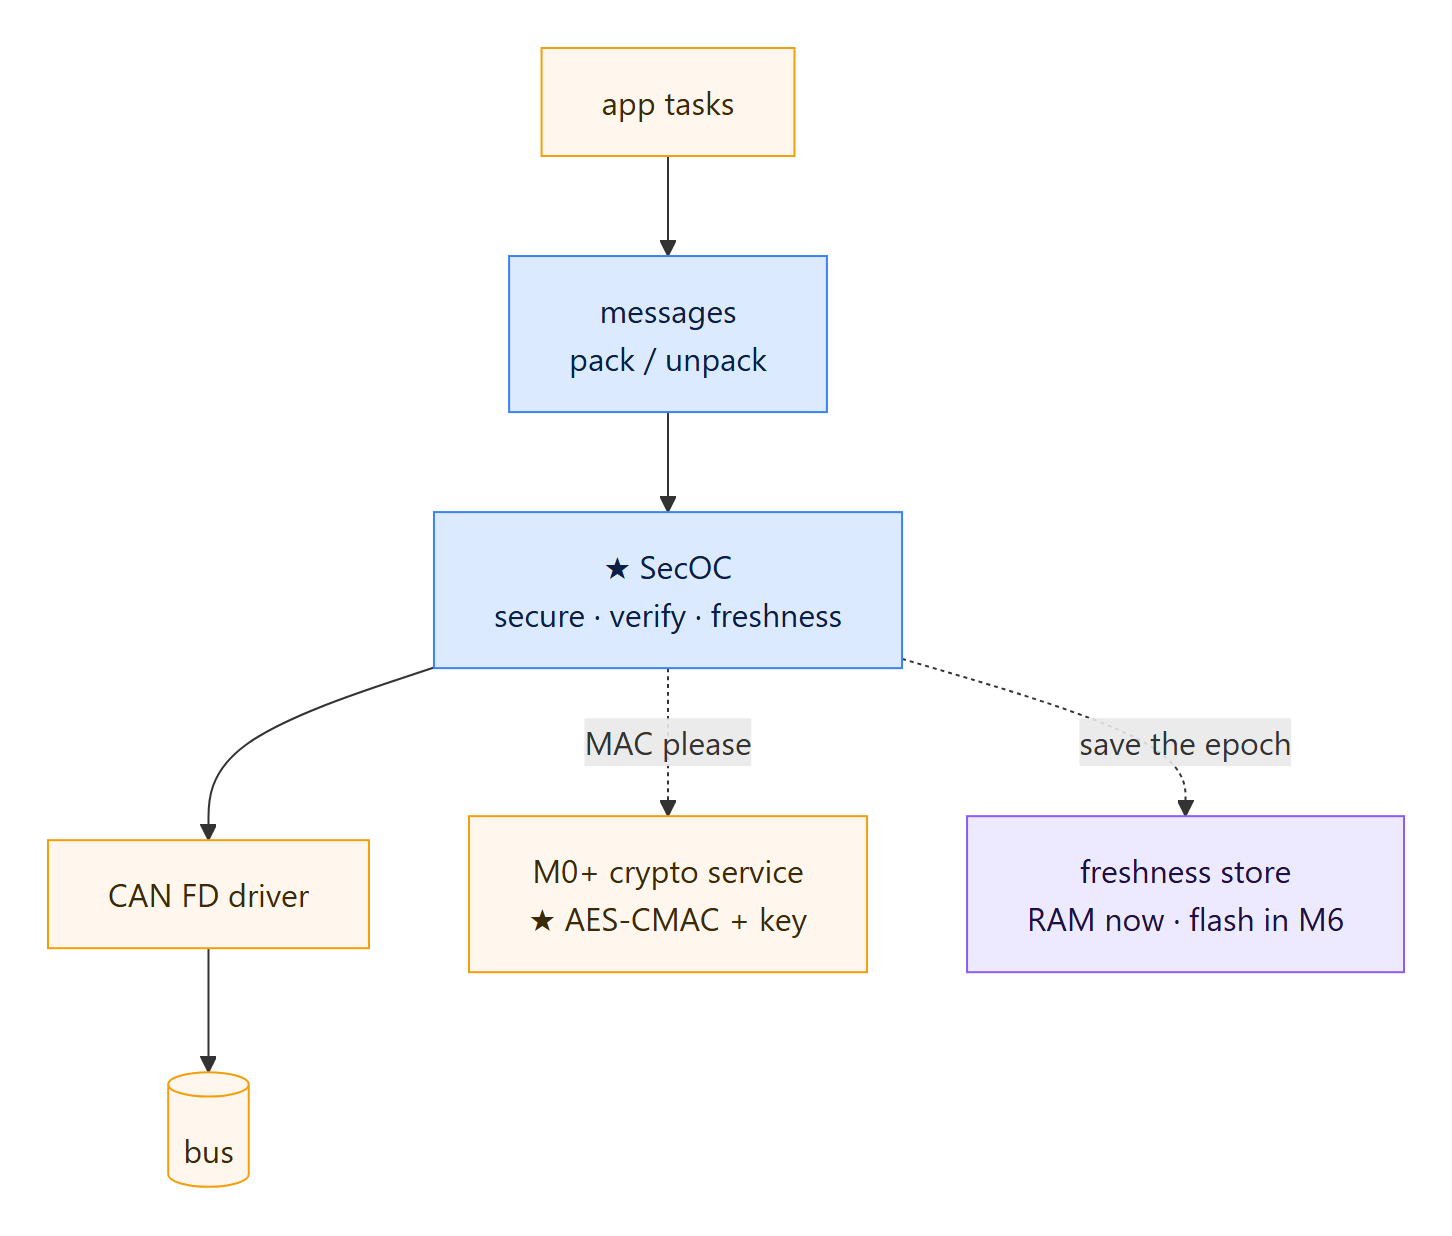
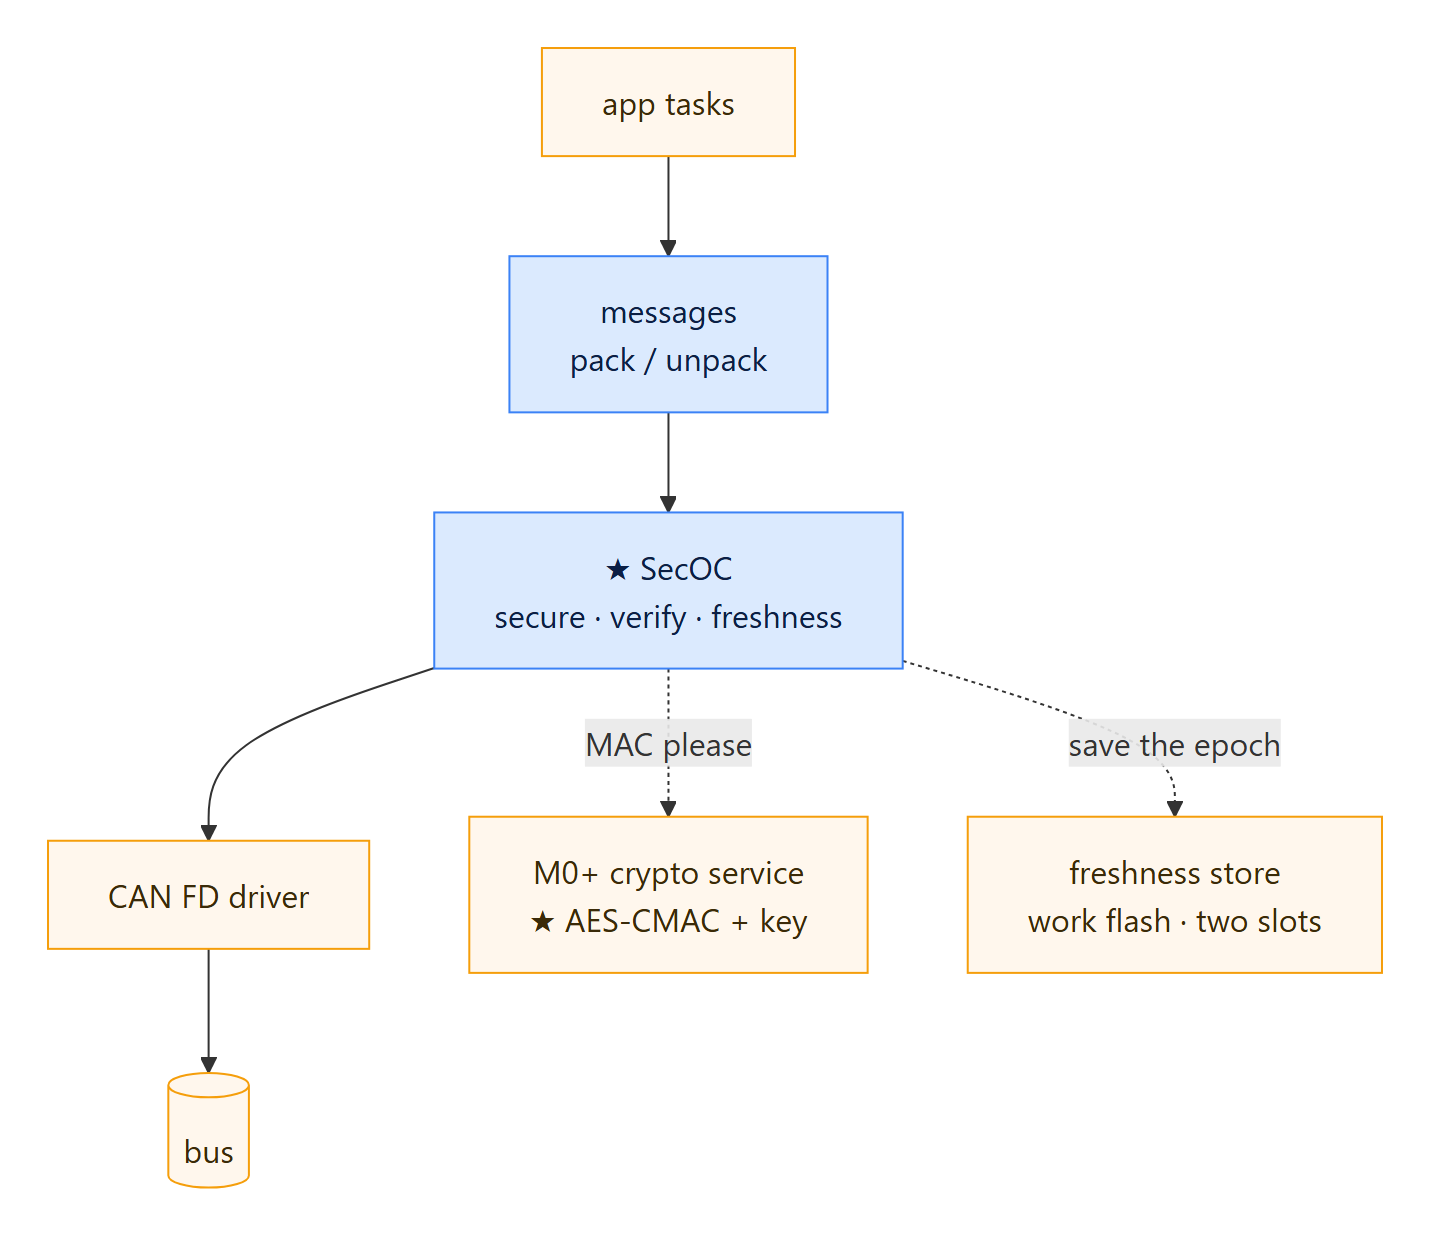
docs(blog): M5 post updated for M5B — persistent freshness, gateway-reboot fix
Update the published M5 post in place instead of a separate M5B post:
- freshness state now in work flash (two slots), not "RAM, M6 fixes it"
- reset demo: an old frame after a Node B reset is now refused (2026-11-01 capture)
- key residency backed by the 2026-10-30 image check
- new "Update, November 2026" section: power cycles, F-014 (460 rejects -> 0/0/1),
  F-015 (failed save now drops the frame); new fig-10, fig-06 re-rendered
- metadata tag m5b-secoc

diff --git a/docs/blogs/m5-secoc-medium.html b/docs/blogs/m5-secoc-medium.html
@@ -3,24 +3,25 @@
 <style>body{max-width:720px;margin:2em auto;font:18px/1.6 Georgia,serif;padding:0 16px}img{max-width:100%}pre{background:#f4f4f4;padding:12px;overflow-x:auto;font-size:14px}mark{background:#ffe08a}blockquote{border-left:3px solid #ccc;margin-left:0;padding-left:16px;color:#444}</style></head><body>
 <h1>M5 — Signing every CAN frame between two MCUs</h1>
 <p><em>Part V of Traveo II Domain — building an automotive body-domain network from scratch on an Infineon TRAVEO™ T2G, with the design done in the open and Claude used as a visible collaborator.</em></p>
-<figure><img src="https://raw.githubusercontent.com/binhnguyenthanh051-ops/traveo-body-domain/docs/m5-blog/docs/blogs/img/m5/hero.png" alt=""></figure>
+<figure><img src="https://raw.githubusercontent.com/binhnguyenthanh051-ops/traveo-body-domain/docs/m5b-blog/docs/blogs/img/m5/hero.png" alt=""></figure>
 <p>M4 ends with a promise: <em>"Symmetric crypto comes in M5 for authenticated messages (a MAC on CAN frames)."</em> This post keeps it.</p>
 <p>M4 checks <strong>which code runs</strong>. M5 checks <strong>which commands that code obeys</strong>. Every frame between the two nodes now carries a MAC and a counter, and someone on the bus without the key can't unlock the door.</p>
 <p>The plan is simple: the problem, the solution, how it's built, and the test. The test has a twist: all host tests passed, and the first real bus rejected every frame.</p>
+<p><em>Updated November 2026: the counter now survives a reboot, and that fix turned up a new bug. The story is in the update at the end.</em></p>
 <hr>
 <h2>1. The problem</h2>
 <h3>What can an attacker do to a CAN frame?</h3>
 <p>Two nodes talk over CAN FD. Node A (the gateway) sends commands, and Node B (the actuator) drives the door lock and the light.</p>
-<figure><img src="https://raw.githubusercontent.com/binhnguyenthanh051-ops/traveo-body-domain/docs/m5-blog/docs/blogs/img/m5/fig-01.png" alt="diagram"></figure>
+<figure><img src="https://raw.githubusercontent.com/binhnguyenthanh051-ops/traveo-body-domain/docs/m5b-blog/docs/blogs/img/m5/fig-01.png" alt="diagram"></figure>
 <p>CAN has no idea who sent a frame. Any node can send any ID. So an attacker with a USB-CAN adapter (but no key) has four options:</p>
-<figure><img src="https://raw.githubusercontent.com/binhnguyenthanh051-ops/traveo-body-domain/docs/m5-blog/docs/blogs/img/m5/fig-02.png" alt="diagram"></figure>
+<figure><img src="https://raw.githubusercontent.com/binhnguyenthanh051-ops/traveo-body-domain/docs/m5b-blog/docs/blogs/img/m5/fig-02.png" alt="diagram"></figure>
 <p><em>Before M5, all four end in the red box.</em></p>
 <p>Replay is the sneaky one. The replayed frame <strong>is</strong> real: it came from Node A and nobody changed it. Checking "who sent it" and "was it changed" isn't enough. The receiver also has to ask: <strong>is it new?</strong></p>
 <hr>
 <h2>2. The solution</h2>
 <h3>One fix per attack</h3>
 <p>This is SecOC (Secure Onboard Communication), the AUTOSAR idea, in a simple form.</p>
-<figure><img src="https://raw.githubusercontent.com/binhnguyenthanh051-ops/traveo-body-domain/docs/m5-blog/docs/blogs/img/m5/fig-03.png" alt="diagram"></figure>
+<figure><img src="https://raw.githubusercontent.com/binhnguyenthanh051-ops/traveo-body-domain/docs/m5b-blog/docs/blogs/img/m5/fig-03.png" alt="diagram"></figure>
 <ul>
 <li>A <strong>MAC</strong> alone stops spoofing and tampering. A replayed frame still has a valid MAC.</li>
 <li><strong>MAC + freshness</strong> stops replay.</li>
@@ -28,7 +29,7 @@
 </ul>
 <p>The Data ID wasn't in my first design. I found the masquerade hole while reviewing it on paper, which is a much cheaper place to find it than on the bench.</p>
 <h3>What a secured frame looks like</h3>
-<figure><img src="https://raw.githubusercontent.com/binhnguyenthanh051-ops/traveo-body-domain/docs/m5-blog/docs/blogs/img/m5/fig-04.png" alt="diagram"></figure>
+<figure><img src="https://raw.githubusercontent.com/binhnguyenthanh051-ops/traveo-body-domain/docs/m5b-blog/docs/blogs/img/m5/fig-04.png" alt="diagram"></figure>
 <p><em>Door command 0x120. The MAC covers the CAN ID + freshness + PDU, but the CAN ID isn't repeated inside the frame. Remember the grey pad box, it comes back in §4.</em></p>
 <pre><code>MAC        AES-128-CMAC, cut to 8 bytes
 Freshness  epoch (2 B) + counter (2 B)
@@ -36,23 +37,24 @@ Overhead   12 bytes per frame
 Bus        CAN FD, 500 kbit/s / 2 Mbit/s</code></pre>
 <p><strong>Why only 8 bytes of MAC?</strong> Every guess costs the attacker one frame on the bus, and the counter changes the MAC every time. So 8 bytes (1 in 2⁶⁴ per try) is plenty.</p>
 <h3>Is it new? The freshness rule</h3>
-<figure><img src="https://raw.githubusercontent.com/binhnguyenthanh051-ops/traveo-body-domain/docs/m5-blog/docs/blogs/img/m5/fig-05.png" alt="diagram"></figure>
+<figure><img src="https://raw.githubusercontent.com/binhnguyenthanh051-ops/traveo-body-domain/docs/m5b-blog/docs/blogs/img/m5/fig-05.png" alt="diagram"></figure>
 <ul>
 <li>The <strong>MAC is checked first</strong>. A fake frame can never move the counter, so an attacker can't block real frames with junk.</li>
 <li>Each ID has its <strong>own counter</strong>, and all IDs share one <strong>epoch</strong> per boot. One flash write per boot, no matter how many IDs.</li>
 </ul>
-<p>Honest — the counter lives in RAM, so replay protection resets when Node B reboots. M6 moves it to flash.</p>
+<p>Each node's epoch, and the newest epoch it has accepted from the other node, are saved in flash. So replay protection survives a reboot. The first version kept them in RAM; the update at the end shows what that cost.</p>
 <h3>Where the key lives</h3>
 <p>The key is on the <strong>M0+</strong>, the same security core M4 uses to check the app. The app core never sees the key. It can only ask the M0+: "give me a MAC over these bytes". That's the opcode M4 kept free for M5.</p>
+<p>I checked that in the built images: the key's 16 bytes are in both M0+ images, and in none of the app or bootloader images.</p>
 <p>Honest — both nodes share one key, built into the M0+ image. Real cars use a key per ECU.</p>
 <hr>
 <h2>3. The implementation</h2>
 <h3>A new brick between two old ones</h3>
-<figure><img src="https://raw.githubusercontent.com/binhnguyenthanh051-ops/traveo-body-domain/docs/m5-blog/docs/blogs/img/m5/fig-06.png" alt="diagram"></figure>
-<p><em>Blue runs on a PC too. Amber is board code. Purple changes in M6.</em></p>
+<figure><img src="https://raw.githubusercontent.com/binhnguyenthanh051-ops/traveo-body-domain/docs/m5b-blog/docs/blogs/img/m5/fig-06.png" alt="diagram"></figure>
+<p><em>Blue runs on a PC too. Amber is board code.</em></p>
 <p>SecOC knows nothing about the CAN driver, the IPC mailbox or the flash. It talks to them through a few small interfaces, and each node plugs in its own version. So the <strong>same SecOC code</strong> runs on Node A (Cortex-M4), Node B (Cortex-M7) and my PC for the unit tests.</p>
 <h3>The data path</h3>
-<figure><img src="https://raw.githubusercontent.com/binhnguyenthanh051-ops/traveo-body-domain/docs/m5-blog/docs/blogs/img/m5/fig-07.png" alt="diagram"></figure>
+<figure><img src="https://raw.githubusercontent.com/binhnguyenthanh051-ops/traveo-body-domain/docs/m5b-blog/docs/blogs/img/m5/fig-07.png" alt="diagram"></figure>
 <p><em>A frame that fails never reaches the door. A fake command is treated the same as no command.</em></p>
 <h3>Node B has a cache</h3>
 <p>Node B is a different chip: a Cortex-M7, with a data cache. The M7 and the M0+ share the mailbox, and the M0+ can't see what's still sitting in the M7's cache. Instead of cleaning the cache on every call (easy to forget once), the mailbox lives in a memory region the MPU marks <strong>non-cacheable</strong>, set once at startup.</p>
@@ -64,19 +66,20 @@ Bus        CAN FD, 500 kbit/s / 2 Mbit/s</code></pre>
 <p>On the first real bus run, Node A rejected <strong>every</strong> frame from Node B. The sniffer showed why:</p>
 <pre><code>200  len=16  TELEMETRY  00 00 00 | epoch 1 ctr 7154 | mac 71b9fa4e9d1e45a7 | pad 00</code></pre>
 <p>I expected 15 bytes (3 B data + 12 B). The frame had <strong>16</strong>. CAN FD has no 13, 14 or 15-byte frames, so the controller pads up to 16.</p>
-<figure><img src="https://raw.githubusercontent.com/binhnguyenthanh051-ops/traveo-body-domain/docs/m5-blog/docs/blogs/img/m5/fig-08.png" alt="diagram"></figure>
+<figure><img src="https://raw.githubusercontent.com/binhnguyenthanh051-ops/traveo-body-domain/docs/m5b-blog/docs/blogs/img/m5/fig-08.png" alt="diagram"></figure>
 <p>The receiver guessed the data length as "frame length minus 12". On a padded frame that guess is wrong, so the MAC check reads the wrong bytes.</p>
 <p><strong>The fix:</strong> the data length per CAN ID is now <strong>configuration</strong>, not a guess. That's how AUTOSAR does it, and now I know why. 9 more tests (239), and the bus went green: thousands of frames each way, counters with no gaps, zero rejects.</p>
 <h3>The attacks, on real silicon</h3>
 <p>I wrote a small attacker script that sends frames from the VN1611 the way a keyless attacker would.</p>
-<figure><img src="https://raw.githubusercontent.com/binhnguyenthanh051-ops/traveo-body-domain/docs/m5-blog/docs/blogs/img/m5/fig-09.png" alt="diagram"></figure>
+<figure><img src="https://raw.githubusercontent.com/binhnguyenthanh051-ops/traveo-body-domain/docs/m5b-blog/docs/blogs/img/m5/fig-09.png" alt="diagram"></figure>
 <p><em>Five attacks, five rejects, one log event each. The door never unlocked.</em></p>
 <p>The replay is my favourite: the frame was 100% real and the MAC was valid. Only the old counter gave it away.</p>
 <h3>The cost</h3>
 <pre><code>Secured traffic    one frame each way every 20 ms, zero rejects
 Overhead           12 bytes per frame
 MAC on the stack   556 bytes — my CAN task stack overflowed on the first MAC
-MAC round trip     not measured yet</code></pre>
+MAC round trip     not measured yet
+Flash save         once per boot, never per frame (time not measured yet)</code></pre>
 <p>Adding security changed the stack budget. FreeRTOS caught the overflow on the first run, and the stacks went from 768 B to 1.5 KB.</p>
 <hr>
 <h2>5. User manual — run the attacks yourself</h2>
@@ -90,7 +93,24 @@ MAC round trip     not measured yet</code></pre>
 [ 6730 ms] LOG_EVT_SECOC_REJECT_MAC        can_id=0x121 reject_reason=0x1   ← tamper
 [ 8232 ms] LOG_EVT_SECOC_REJECT_FRESHNESS  can_id=0x121 rx_ctr=160          ← replay
 [ 8733 ms] LOG_EVT_SECOC_REJECT_MAC        can_id=0x120 reject_reason=0x1   ← masquerade</code></pre>
-<p>The failure demo — the best part: reset Node B, then replay an old frame. It should be <strong>accepted</strong>, because the counter lives in RAM and starts again after a reset. That's exactly what M6 fixes.</p>
+<p>The reset demo — the best part. Save a real light command, reset Node B, then send the saved frame:</p>
+<pre><code>python host_tools/secoc_attack/secoc_attack.py replay --save old.json
+python host_tools/secoc_attack/secoc_attack.py replay --load old.json</code></pre>
+<p>In the first version this frame was <strong>accepted</strong>, because the counter lived in RAM. Now Node B remembers the last epoch it accepted, only takes a newer one after the reset, and refuses the old frame:</p>
+<pre><code>[    2065 app] LOG_EVT_SECOC_REJECT_FRESHNESS can_id=0x121 rx_ctr=965</code></pre>
+<hr>
+<h2>Update, November 2026 — the counter survives a reboot</h2>
+<p>The first version of this post ended on a hole: reset Node B and an old frame works again. I closed it, and the fix found a bug of its own.</p>
+<h3>The fix: two slots in flash</h3>
+<p>The epochs now live in work flash, in two slots. A save writes the slot that isn't in use, and the "valid" mark goes in last. If the power cuts mid-save, the old slot is still good, and at worst one epoch is skipped.</p>
+<p>On the bench: 5 real power cycles (USB pulled), and every epoch went up by exactly one. None repeated. A replay after a Node B reset is refused (the log line above).</p>
+<p>Honest — a power cut <em>during</em> a save is only tested on the PC. The window is a few ms per boot, too short to hit by hand.</p>
+<h3>The new bug: the gateway reboots alone</h3>
+<p>Node A is a receiver too: it checks Node B's telemetry. With a saved counter, a rebooted Node A wants a newer epoch than the one Node B is still sending. So it rejected <strong>460 telemetry frames in a row</strong> and never recovered until Node B happened to reboot.</p>
+<figure><img src="https://raw.githubusercontent.com/binhnguyenthanh051-ops/traveo-body-domain/docs/m5b-blog/docs/blogs/img/m5/fig-10.png" alt="diagram"></figure>
+<p><em>Node B already sent this sync when it rebooted. Node A now does the same.</em></p>
+<p>The RAM version hid this, because a freshly booted receiver accepted any epoch. The fix: at boot, Node A sends a signed sync frame with the epoch it now expects, and Node B moves past it. After 3 Node A resets: 0, 0 and 1 rejects, down from 460. An old sync frame replayed after the next reset is refused.</p>
+<p>A code review found one more: if saving a new epoch failed, the receiver ignored the error and accepted the frame anyway. After the next reboot, old frames from that epoch would replay. Now a failed save drops the frame. That one is tested on the PC only, because I can't make the flash fail on demand.</p>
 <hr>
 <h2>Metadata</h2>
 <pre><code>Board      · Node A: TRAVEO™ T2G Body Entry (CYT2B7) · Node B: KIT_T2G-B-H_LITE (CYT4BF, Cortex-M7)
@@ -98,11 +118,11 @@ Toolchain  · ModusToolbox, Python
 RTOS       · FreeRTOS (app) · bare-metal (CM0+)
 Crypto     · AES-128-CMAC via the CRYPTO block, Cy_Crypto_Core_V2_Cmac
 Bus        · CAN FD 500 kbit/s / 2 Mbit/s · Vector VN1611
-Repo       · tag m5-secoc
-Written    · October 2026</code></pre>
+Repo       · tag m5b-secoc
+Written    · October 2026 · updated November 2026</code></pre>
 <h2>Follow along</h2>
 <p>💻 GitHub — Traveo II Body Domain</p>
-<p>🔗 https://github.com/binhnguyenthanh051-ops/traveo-body-domain (tag m5-secoc)</p>
+<p>🔗 https://github.com/binhnguyenthanh051-ops/traveo-body-domain (tag m5b-secoc)</p>
 <p>💻 LinkedIn</p>
 <p>🔗 https://www.linkedin.com/in/binh-nguyen-thanh-2b807714b/</p>
 <hr>

diff --git a/docs/blogs/m5-secoc-blog-draft.md b/docs/blogs/m5-secoc-blog-draft.md
@@ -10,6 +10,8 @@ M4 checks **which code runs**. M5 checks **which commands that code obeys**. Eve
 
 The plan is simple: the problem, the solution, how it's built, and the test. The test has a twist: all host tests passed, and the first real bus rejected every frame.
 
+*Updated November 2026: the counter now survives a reboot, and that fix turned up a new bug. The story is in the update at the end.*
+
 ---
 
 ## 1. The problem
@@ -118,11 +120,13 @@ flowchart TD
 - The **MAC is checked first**. A fake frame can never move the counter, so an attacker can't block real frames with junk.
 - Each ID has its **own counter**, and all IDs share one **epoch** per boot. One flash write per boot, no matter how many IDs.
 
-Honest — the counter lives in RAM, so replay protection resets when Node B reboots. M6 moves it to flash.
+Each node's epoch, and the newest epoch it has accepted from the other node, are saved in flash. So replay protection survives a reboot. The first version kept them in RAM; the update at the end shows what that cost.
 
 ### Where the key lives
 
 The key is on the **M0+**, the same security core M4 uses to check the app. The app core never sees the key. It can only ask the M0+: "give me a MAC over these bytes". That's the opcode M4 kept free for M5.
+
+I checked that in the built images: the key's 16 bytes are in both M0+ images, and in none of the app or bootloader images.
 
 Honest — both nodes share one key, built into the M0+ image. Real cars use a key per ECU.
 
@@ -138,16 +142,14 @@ flowchart TB
     MSG --> SEC["★ SecOC<br/>secure · verify · freshness"]
     SEC --> CAN["CAN FD driver"] --> BUS[("bus")]
     SEC -. "MAC please" .-> M0["M0+ crypto service<br/>★ AES-CMAC + key"]
-    SEC -. "save the epoch" .-> ST["freshness store<br/>RAM now · flash in M6"]
+    SEC -. "save the epoch" .-> ST["freshness store<br/>work flash · two slots"]
     classDef pure fill:#dbeafe,stroke:#3b82f6,color:#0b1f44;
     classDef tgt fill:#fff7ed,stroke:#f59e0b,color:#3a2a08;
-    classDef next fill:#ede9fe,stroke:#8b5cf6,color:#1e1040;
     class SEC,MSG pure;
-    class APP,CAN,BUS,M0 tgt;
-    class ST next;
+    class APP,CAN,BUS,M0,ST tgt;
 ```
 
-*Blue runs on a PC too. Amber is board code. Purple changes in M6.*
+*Blue runs on a PC too. Amber is board code.*
 
 SecOC knows nothing about the CAN driver, the IPC mailbox or the flash. It talks to them through a few small interfaces, and each node plugs in its own version. So the **same SecOC code** runs on Node A (Cortex-M4), Node B (Cortex-M7) and my PC for the unit tests.
 
@@ -247,6 +249,7 @@ Secured traffic    one frame each way every 20 ms, zero rejects
 Overhead           12 bytes per frame
 MAC on the stack   556 bytes — my CAN task stack overflowed on the first MAC
 MAC round trip     not measured yet
+Flash save         once per boot, never per frame (time not measured yet)
 ```
 
 Adding security changed the stack budget. FreeRTOS caught the overflow on the first run, and the stacks went from 768 B to 1.5 KB.
@@ -275,7 +278,61 @@ What it looks like on Node B (one line per attack):
 [ 8733 ms] LOG_EVT_SECOC_REJECT_MAC        can_id=0x120 reject_reason=0x1   ← masquerade
 ```
 
-The failure demo — the best part: reset Node B, then replay an old frame. It should be **accepted**, because the counter lives in RAM and starts again after a reset. That's exactly what M6 fixes.
+The reset demo — the best part. Save a real light command, reset Node B, then send the saved frame:
+
+```
+python host_tools/secoc_attack/secoc_attack.py replay --save old.json
+python host_tools/secoc_attack/secoc_attack.py replay --load old.json
+```
+
+In the first version this frame was **accepted**, because the counter lived in RAM. Now Node B remembers the last epoch it accepted, only takes a newer one after the reset, and refuses the old frame:
+
+```
+[    2065 app] LOG_EVT_SECOC_REJECT_FRESHNESS can_id=0x121 rx_ctr=965
+```
+
+---
+
+## Update, November 2026 — the counter survives a reboot
+
+The first version of this post ended on a hole: reset Node B and an old frame works again. I closed it, and the fix found a bug of its own.
+
+### The fix: two slots in flash
+
+The epochs now live in work flash, in two slots. A save writes the slot that isn't in use, and the "valid" mark goes in last. If the power cuts mid-save, the old slot is still good, and at worst one epoch is skipped.
+
+On the bench: 5 real power cycles (USB pulled), and every epoch went up by exactly one. None repeated. A replay after a Node B reset is refused (the log line above).
+
+Honest — a power cut *during* a save is only tested on the PC. The window is a few ms per boot, too short to hit by hand.
+
+### The new bug: the gateway reboots alone
+
+Node A is a receiver too: it checks Node B's telemetry. With a saved counter, a rebooted Node A wants a newer epoch than the one Node B is still sending. So it rejected **460 telemetry frames in a row** and never recovered until Node B happened to reboot.
+
+```mermaid
+flowchart LR
+    subgraph OLD["Before"]
+        direction TB
+        O1["Node A reboots<br/>wants a newer epoch"] --> O2["Node B still sends<br/>the old epoch"] --> O3(["460 rejects<br/>no telemetry"])
+    end
+    subgraph NEW["After"]
+        direction TB
+        N1["Node A reboots<br/>sends a signed sync"] --> N2["Node B jumps<br/>to the new epoch"] --> N3(["telemetry back<br/>in ~36 ms"])
+    end
+    OLD ~~~ NEW
+    classDef bad fill:#fee2e2,stroke:#ef4444,color:#3a0a0a;
+    classDef ok fill:#dcfce7,stroke:#22c55e,color:#052e14;
+    classDef tgt fill:#fff7ed,stroke:#f59e0b,color:#3a2a08;
+    class O3 bad;
+    class N3 ok;
+    class O1,O2,N1,N2 tgt;
+```
+
+*Node B already sent this sync when it rebooted. Node A now does the same.*
+
+The RAM version hid this, because a freshly booted receiver accepted any epoch. The fix: at boot, Node A sends a signed sync frame with the epoch it now expects, and Node B moves past it. After 3 Node A resets: 0, 0 and 1 rejects, down from 460. An old sync frame replayed after the next reset is refused.
+
+A code review found one more: if saving a new epoch failed, the receiver ignored the error and accepted the frame anyway. After the next reboot, old frames from that epoch would replay. Now a failed save drops the frame. That one is tested on the PC only, because I can't make the flash fail on demand.
 
 ---
 
@@ -287,15 +344,15 @@ Toolchain  · ModusToolbox, Python
 RTOS       · FreeRTOS (app) · bare-metal (CM0+)
 Crypto     · AES-128-CMAC via the CRYPTO block, Cy_Crypto_Core_V2_Cmac
 Bus        · CAN FD 500 kbit/s / 2 Mbit/s · Vector VN1611
-Repo       · tag m5-secoc
-Written    · October 2026
+Repo       · tag m5b-secoc
+Written    · October 2026 · updated November 2026
 ```
 
 ## Follow along
 
 💻 GitHub — Traveo II Body Domain
 
-🔗 https://github.com/binhnguyenthanh051-ops/traveo-body-domain (tag m5-secoc)
+🔗 https://github.com/binhnguyenthanh051-ops/traveo-body-domain (tag m5b-secoc)
 
 💻 LinkedIn
 
@@ -304,4 +361,4 @@ Written    · October 2026
 ---
 
 ## Figures list
-- `img/m5/hero.png` (from `hero.svg`) and `img/m5/fig-01…09.png`, rendered by `host_tools/blog/render_diagrams.py`.
+- `img/m5/hero.png` (from `hero.svg`) and `img/m5/fig-01…10.png`, rendered by `host_tools/blog/render_diagrams.py`.
